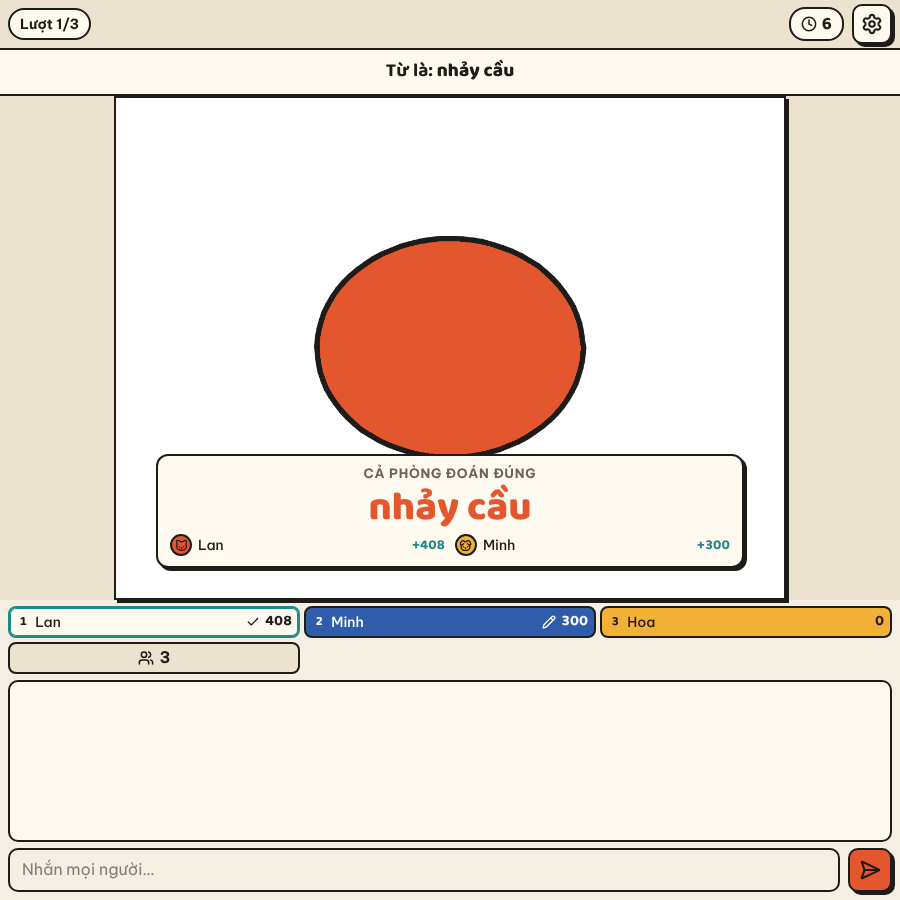
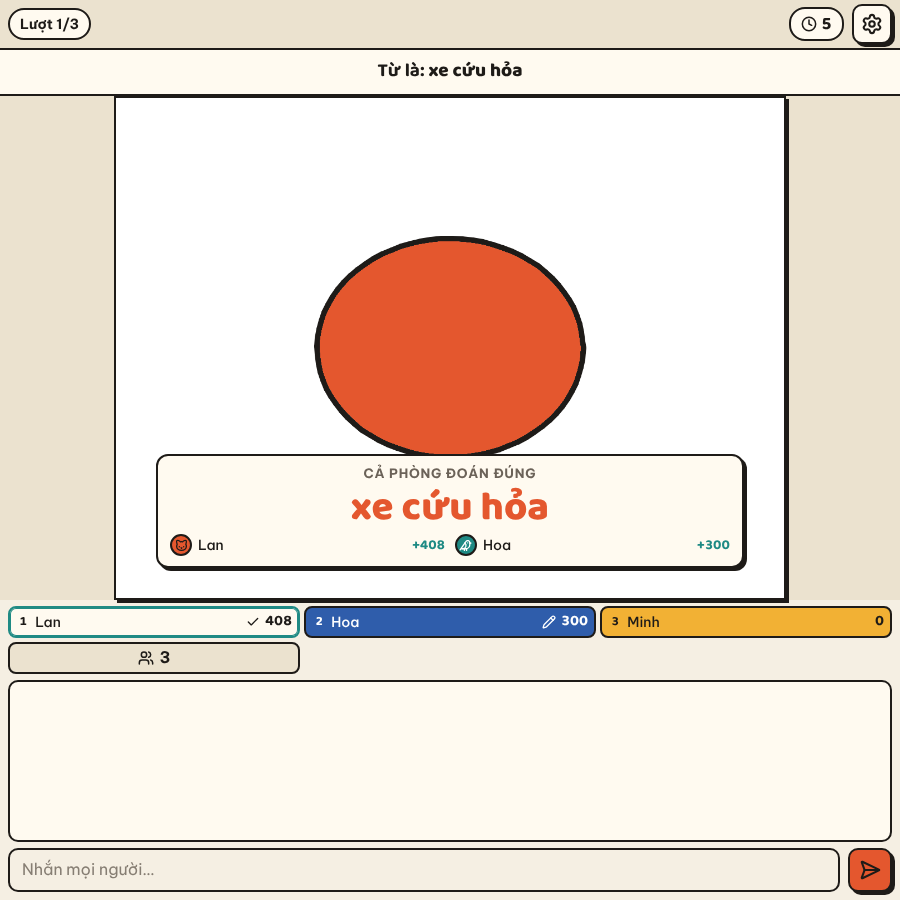
Production verification: load test, 3-page e2e, link-preview check
Claude-Session: https://claude.ai/code/session_01JD5sEiYkdQYwZ6ZSHXnZuj

diff --git a/reports/e2e.md b/reports/e2e.md
@@ -1,8 +1,8 @@
 # E2E: 3 browser pages, one game per drawer mode
 
-- [x] [rotate] room created with 5-char code — K2X48
+- [x] [rotate] room created with 5-char code — 9N8GR
 - [x] [rotate] share link joins the lobby (3 players, query stripped)
-- [x] [rotate] turn 1: drawer sees the word, guessers see a mask — nhảy cầu
+- [x] [rotate] turn 1: drawer sees the word, guessers see a mask — xe cứu hỏa
 - [x] [rotate] fill: red inside the circle, white outside — 228,87,46 / 255,255,255
 - [x] [rotate] custom colour applied
 - [x] [rotate] custom colour stroke drawn — 47,93,168
@@ -17,25 +17,25 @@
 - [x] [rotate] reload reconnects to the same seat
 - [x] [rotate] canvas restored after reload
 - [x] [rotate] turn 1: everyone guessed -> reveal shows the word
-- [x] [rotate] turn 1: revealed word is correct — nhảy cầu
-- [x] [rotate] turn 2: drawer sees the word, guessers see a mask — phở
+- [x] [rotate] turn 1: revealed word is correct — xe cứu hỏa
+- [x] [rotate] turn 2: drawer sees the word, guessers see a mask — đôi tai
 - [x] [rotate] turn 2: near-miss shows "Gần đúng!"
 - [x] [rotate] turn 2: everyone guessed -> reveal shows the word
-- [x] [rotate] turn 2: revealed word is correct — phở
-- [x] [rotate] turn 3: drawer sees the word, guessers see a mask — Sài Gòn
+- [x] [rotate] turn 2: revealed word is correct — đôi tai
+- [x] [rotate] turn 3: drawer sees the word, guessers see a mask — dòng sông
 - [x] [rotate] turn 3: near-miss shows "Gần đúng!"
 - [x] [rotate] turn 3: everyone guessed -> reveal shows the word
-- [x] [rotate] turn 3: revealed word is correct — Sài Gòn
+- [x] [rotate] turn 3: revealed word is correct — dòng sông
 - [x] [rotate] game reaches the podium
-- [x] [rotate] every player drew once (fair rotation) — Minh,Lan,Hoa
+- [x] [rotate] every player drew once (fair rotation) — Hoa,Minh,Lan
 - [x] [rotate] podium lists all players with scores
 - [x] [rotate] gallery has one drawing per turn — 3/3
 - [x] [rotate] gallery image opens with a save button
 - [x] [rotate] save PNG downloads a file
-- [x] [hostOnly] room created with 5-char code — UBFGQ
+- [x] [hostOnly] room created with 5-char code — XJZ4M
 - [x] [hostOnly] share link joins the lobby (3 players, query stripped)
 - [x] [hostOnly] host draws turn 1
-- [x] [hostOnly] turn 1: drawer sees the word, guessers see a mask — khúc côn cầu
+- [x] [hostOnly] turn 1: drawer sees the word, guessers see a mask — sân bay
 - [x] [hostOnly] fill: red inside the circle, white outside — 228,87,46 / 255,255,255
 - [x] [hostOnly] custom colour applied
 - [x] [hostOnly] custom colour stroke drawn — 47,93,168
@@ -50,21 +50,21 @@
 - [x] [hostOnly] reload reconnects to the same seat
 - [x] [hostOnly] canvas restored after reload
 - [x] [hostOnly] turn 1: everyone guessed -> reveal shows the word
-- [x] [hostOnly] turn 1: revealed word is correct — khúc côn cầu
+- [x] [hostOnly] turn 1: revealed word is correct — sân bay
 - [x] [hostOnly] host draws turn 2
-- [x] [hostOnly] turn 2: drawer sees the word, guessers see a mask — áo dài cưới
+- [x] [hostOnly] turn 2: drawer sees the word, guessers see a mask — đôi tai
 - [x] [hostOnly] turn 2: near-miss shows "Gần đúng!"
 - [x] [hostOnly] turn 2: everyone guessed -> reveal shows the word
-- [x] [hostOnly] turn 2: revealed word is correct — áo dài cưới
+- [x] [hostOnly] turn 2: revealed word is correct — đôi tai
 - [x] [hostOnly] game reaches the podium
 - [x] [hostOnly] podium lists all players with scores
 - [x] [hostOnly] gallery has one drawing per turn — 2/2
 - [x] [hostOnly] gallery image opens with a save button
 - [x] [hostOnly] save PNG downloads a file
-- [x] [hostMC] room created with 5-char code — RCTAY
+- [x] [hostMC] room created with 5-char code — UV3EX
 - [x] [hostMC] share link joins the lobby (3 players, query stripped)
 - [x] [hostMC] MC host never draws
-- [x] [hostMC] turn 1: drawer sees the word, guessers see a mask — cái giường
+- [x] [hostMC] turn 1: drawer sees the word, guessers see a mask — nem rán
 - [x] [hostMC] fill: red inside the circle, white outside — 228,87,46 / 255,255,255
 - [x] [hostMC] custom colour applied
 - [x] [hostMC] custom colour stroke drawn — 47,93,168
@@ -79,12 +79,12 @@
 - [x] [hostMC] reload reconnects to the same seat
 - [x] [hostMC] canvas restored after reload
 - [x] [hostMC] turn 1: everyone guessed -> reveal shows the word
-- [x] [hostMC] turn 1: revealed word is correct — cái giường
+- [x] [hostMC] turn 1: revealed word is correct — nem rán
 - [x] [hostMC] MC host never draws
-- [x] [hostMC] turn 2: drawer sees the word, guessers see a mask — quả chuối
+- [x] [hostMC] turn 2: drawer sees the word, guessers see a mask — ti vi
 - [x] [hostMC] turn 2: near-miss shows "Gần đúng!"
 - [x] [hostMC] turn 2: everyone guessed -> reveal shows the word
-- [x] [hostMC] turn 2: revealed word is correct — quả chuối
+- [x] [hostMC] turn 2: revealed word is correct — ti vi
 - [x] [hostMC] game reaches the podium
 - [x] [hostMC] podium lists all players with scores
 - [x] [hostMC] gallery has one drawing per turn — 2/2

diff --git a/reports/loadtest.md b/reports/loadtest.md
@@ -53,3 +53,73 @@ Caveat: the probe shares CPU with 42 bots, wrangler/workerd and the drawer, so o
 
 ## Verdict
 **PASS** — all checks above succeeded.
+
+---
+
+# Production run — https://ve-hinh-doan-chu.nguyenlehaidang2k10.workers.dev (build b28eb94, 2026-11-11)
+
+Command: `TARGET_URL=https://ve-hinh-doan-chu.nguyenlehaidang2k10.workers.dev DRAW_SECONDS=60 BOTS=42 npm run loadtest` (single 60 s turn, bots and one Chromium page run from the review sandbox over the internet, so latency includes the real network path).
+
+## Load test report
+
+Generated by `npm run loadtest` on 2026-11-11T23:24:18.015Z against **wrangler dev** (local workerd, loopback network).
+Room `BJ3CK`, 42 bots (+1 late joiner), "Chỉ host vẽ" mode, one 60-second drawing turn, hints on.
+
+## Scenario
+- Drawer (host bot) streams realistic strokes: 60 Hz pointer samples (one op per sample, the worst case for op count), smooth curves 25-140 points long, pauses between strokes, occasional fill / undo / redo / eraser. Client batches every 40 ms.
+- 32 guessers answer correctly at random times; every bot also sends a wrong guess every 5-12 s; 4 never guess so the turn runs to the time limit.
+- 5 bots lose their connection at random moments (socket terminated, no close frame) and reconnect with their session token. 1 bot joins at 40 % of the turn.
+
+## Results
+| Check | Result |
+|---|---|
+| Players in one room | 42 (+1 late joiner) |
+| Turn ended by | timeUp |
+| Ops in the turn (server log) | 2899 |
+| Final op-log hash, server | `be5bc48f0f81d073` |
+| Clients whose hash equals the server | 43 / 43 |
+| Lost or reordered ops (sequence gaps) | 0 |
+| Resync requests | 0 |
+| Reconnects (dropped bots) | 5 / 5 |
+
+### Relay latency (drawer queues an op -> receiver gets it)
+Measured in one process (shared clock), 48820 deliveries. Includes the drawer client's 40 ms batching interval; excludes real-world network round trips (loopback here).
+
+| p50 | p95 | p99 | max |
+|---|---|---|---|
+| 32.3 ms | 42.8 ms | 62.1 ms | 106.3 ms |
+
+### Bandwidth per client (during the turn, 60.0 s)
+| | avg | p95 | max |
+|---|---|---|---|
+| Receive, bytes/s per client | 8545 | 8830 | 9151 |
+| Send, bytes/s per guesser | 4 | 7 | 7 |
+| Send, bytes/s drawer | 1638 | | |
+
+### Messages into the Durable Object
+| total frames | avg msgs/s | peak msgs/s (1 s bin) | frames received per client (avg) |
+|---|---|---|---|
+| 1632 | 27.2 | 56 | 1527 |
+
+Cloudflare bills incoming WebSocket messages 20:1 as requests, outgoing are free: this turn = **82 billed requests** (+ 43 connection requests) out of the free 100,000/day.
+
+### Browser page in the room (Chromium headless, 390x844 phone emulation, software rendering, same machine as the server and all 42 bots)
+One real page played the guesser role through the whole turn while the drawer streamed strokes; a `requestAnimationFrame` probe recorded every frame interval.
+
+| frames | avg fps | p50 | p95 | p99 | max | > 20 ms | > 33 ms | > 50 ms | > 100 ms | long tasks (>50 ms) |
+|---|---|---|---|---|---|---|---|---|---|---|
+| 3594 | 59.9 | 16.7 ms | 16.8 ms | 16.8 ms | 50.0 ms | 3 | 3 | 0 | 0 | 0 |
+
+Page canvas: 2899 ops, op-log hash `be5bc48f0f81d073` (= server), pixel hash `f1347ccb`.
+Caveat: the probe shares CPU with 42 bots, wrangler/workerd and the drawer, so on a real phone frame times will differ; the numbers show the UI does not re-render per stroke under a 42-player stream.
+
+## Verdict
+**PASS** — all checks above succeeded.
+
+### Production 3-page game (`TARGET_URL=… npm run e2e`)
+All checks passed: 90 checks ticked, 0 failed; all 3 drawer modes reached the podium. Details: `reports/e2e.md`.
+
+### Link-preview bot fetch of /r/ABCDE (UA facebookexternalhit/1.1, Zalo, Twitterbot/1.0)
+- og:title, og:description, og:locale, og:image (absolute https URL), og:image:width/height 1200x630, twitter:card/image all present.
+- `GET /og-image.png?v=1` -> 200 image/png, 83,171 bytes.
+- `GET /version` -> build id of the pushed commit (b28eb94).

diff --git a/PLAN.md b/PLAN.md
@@ -38,8 +38,8 @@ Status legend: [x] done · [ ] todo
 
 ## Stage 3 — Review and deploy
 - [x] Code review (Opus read-only review, 10 findings fixed with regression tests, SPEC §11); `/version` + quota screen (SPEC §1)
-- [ ] Connect the repo to Cloudflare Workers Builds (build `npm run build`, deploy `npx wrangler deploy`), first deploy, check the DO migration
-- [ ] Re-run load test and e2e against the deployed URL (`TARGET_URL=…`); real phones on mobile data (latency, reconnect, Zalo browser)
+- [x] Workers Builds deploy from main works; `/version` polled until live
+- [x] Load test, e2e and link-preview check re-run against production (reports/loadtest.md); real phones still to do (TEST_ON_PHONES.md)
 - [ ] Watch the Cloudflare dashboard for requests / duration / rows after a real 42-player session; compare with SPEC §1; tune batch interval/persist debounce if needed
 - [ ] Optional custom domain; `wrangler tail` sanity check
 
